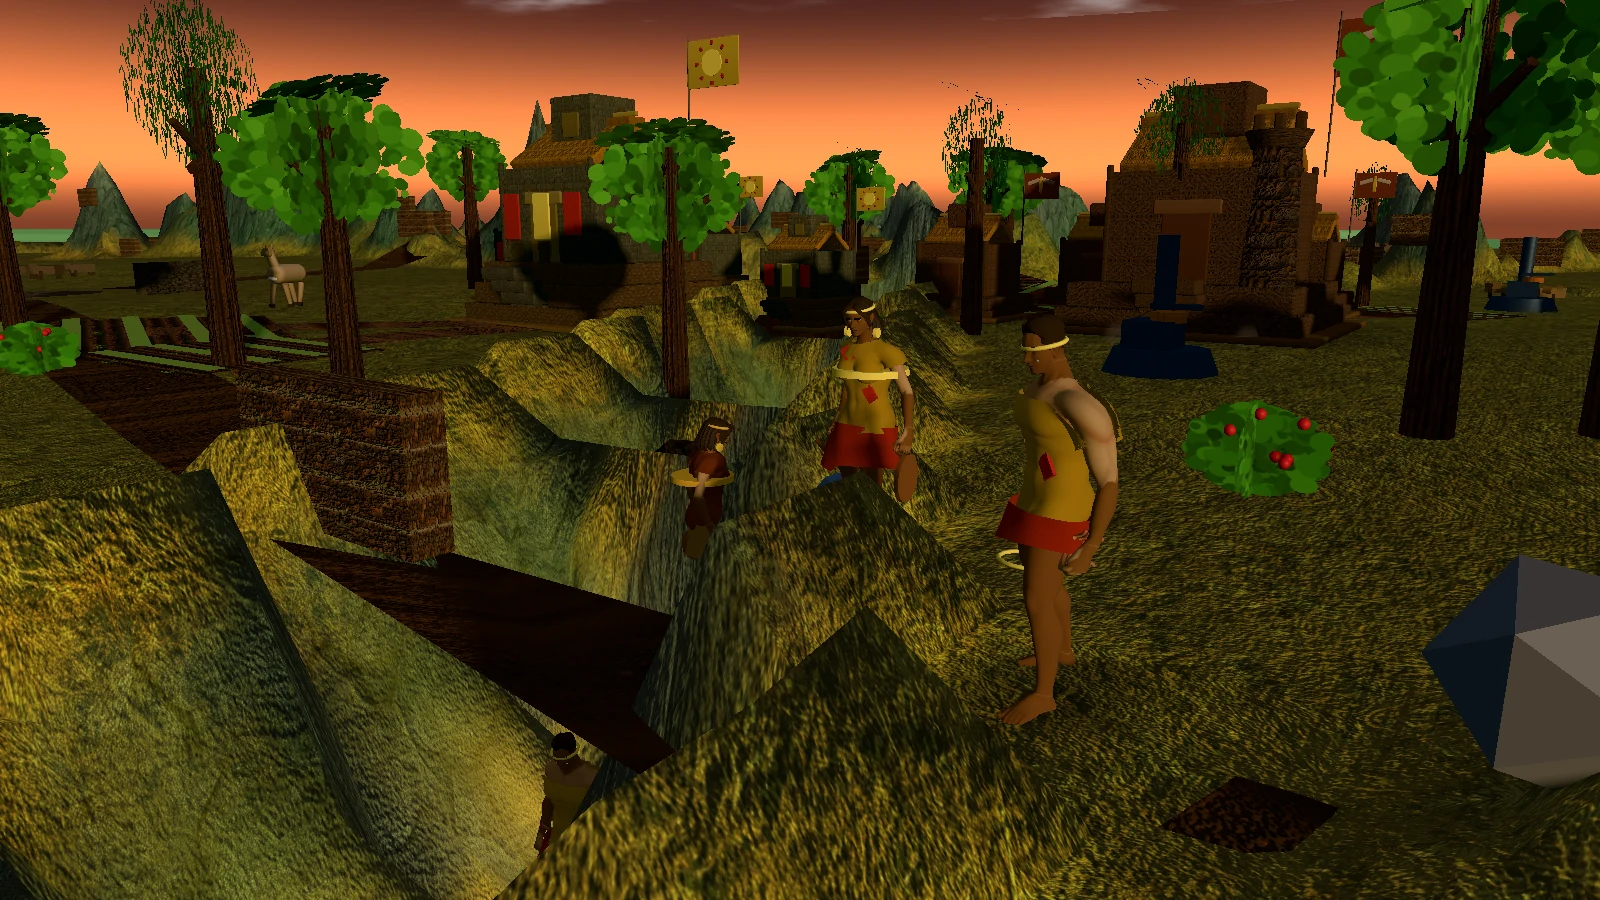
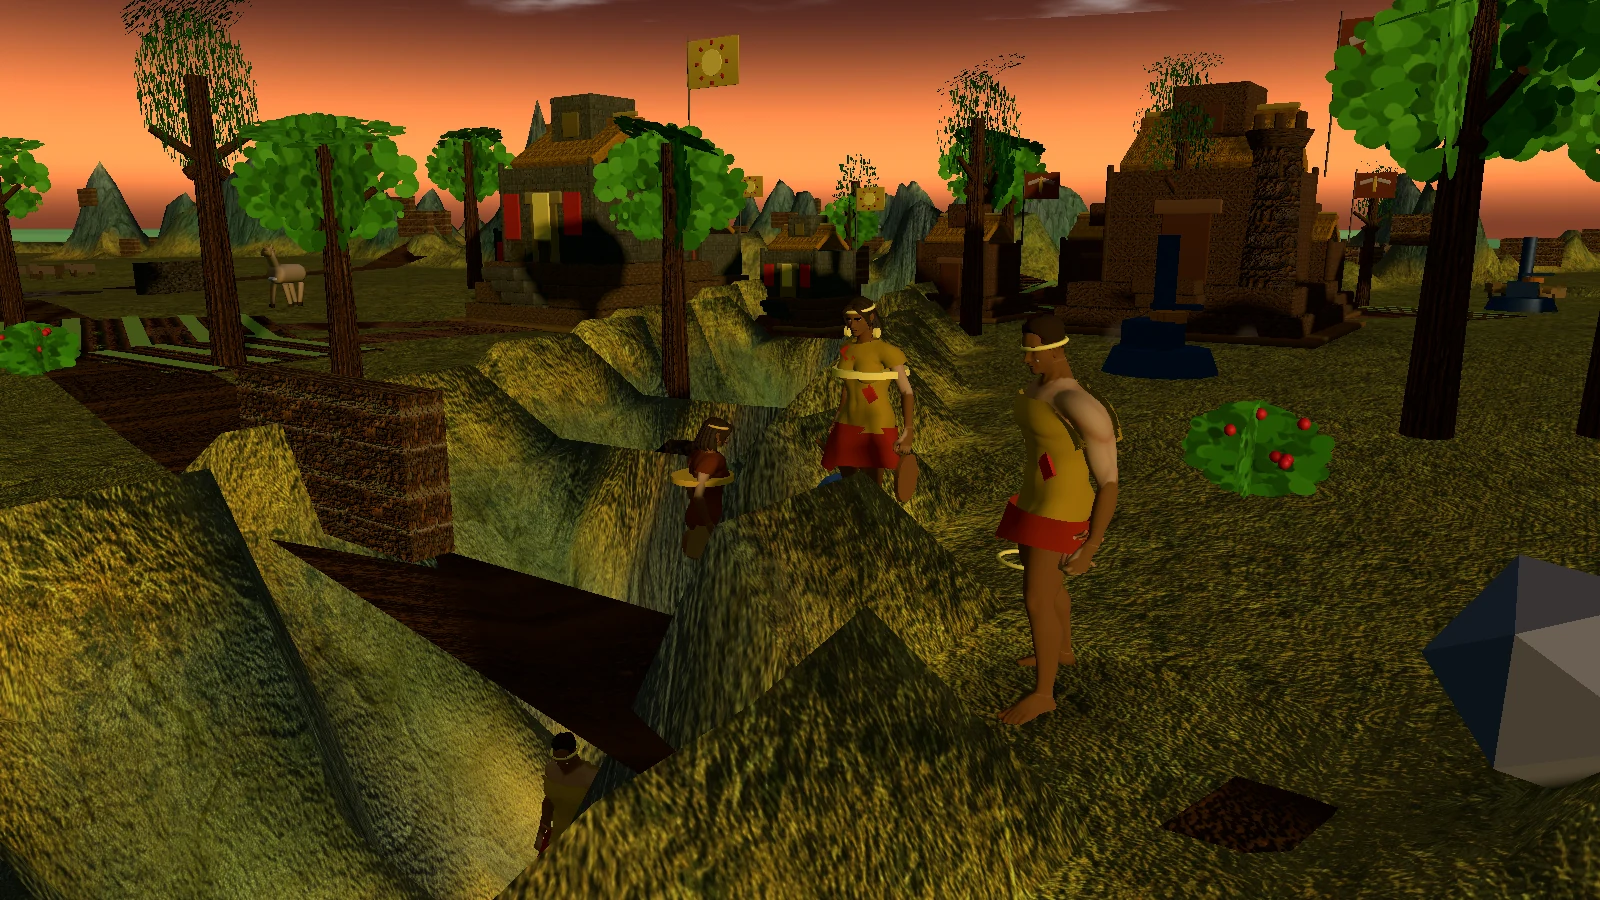
fix(models): keep Tiahuanaco and Chanca sourcing conservative
- Drop the unsourced Tiahuanaco helmet and Chanca/Tiahuanaco ear ornaments.
- Add the Wari back plate and keep the pectoral for ranged units.
- Revert the Chanca/Chimú roster change; era mapping already resolves m5/m6.
- Extend the E2E with scout, enemy-ranged and back-plate coverage.

diff --git a/tests/e2e/late-horizon-units.spec.ts b/tests/e2e/late-horizon-units.spec.ts
@@ -28,7 +28,9 @@ test.describe('Middle and Late Horizon rigged infantry', () => {
         const worker = g.spawnScriptedUnit('worker', 0, c.x - 1.8, c.z + 0.4);
         const soldier = g.spawnScriptedUnit('soldier', 0, c.x, c.z - 0.7);
         const ranged = g.spawnScriptedUnit('musketeer', 0, c.x + 1.8, c.z + 0.5);
+        const scout = g.spawnScriptedUnit('scout', 0, c.x + 3.2, c.z - 0.2);
         const enemy = g.spawnScriptedUnit('soldier', 1, c.x - 1.8, c.z - 1.2);
+        const enemyRanged = g.spawnScriptedUnit('musketeer', 1, c.x - 3.0, c.z + 0.8);
         const visible = (unit: any, name: string): boolean => {
           const mesh = unit?.rig?.root.getObjectByName(name);
           return !!mesh && mesh.visible;
@@ -46,6 +48,7 @@ test.describe('Middle and Late Horizon rigged infantry', () => {
           macana: visible(unit, 'attire_andean_macana'),
           sling: visible(unit, 'attire_andean_sling'),
           pectoral: visible(unit, 'attire_andean_pectoral'),
+          backplate: visible(unit, 'attire_andean_backplate'),
           facePaint: visible(unit, 'attire_andean_face_paint'),
           sash: visible(unit, 'attire_andean_sash'),
           hasAttack: unit?.rig?.hasState('attack') ?? false,
@@ -58,8 +61,10 @@ test.describe('Middle and Late Horizon rigged infantry', () => {
           worker: describe(worker),
           soldier: describe(soldier),
           ranged: describe(ranged),
+          scout: describe(scout),
           enemy: describe(enemy),
-          allRigged: [worker, soldier, ranged, enemy].every((u: any) => !!u?.rig),
+          enemyRanged: describe(enemyRanged),
+          allRigged: [worker, soldier, ranged, scout, enemy, enemyRanged].every((u: any) => !!u?.rig),
         };
       });
 
@@ -67,7 +72,11 @@ test.describe('Middle and Late Horizon rigged infantry', () => {
       expect(out.worker.variant).toMatch(new RegExp(`^${spec.player}_worker_[fm]$`));
       expect(out.soldier.variant).toMatch(new RegExp(`^${spec.player}_soldier_[fm]$`));
       expect(out.ranged.variant).toMatch(new RegExp(`^${spec.player}_ranged_[fm]$`));
+      expect(out.scout.variant).toMatch(
+        new RegExp(spec.enemy === 'tiahuanaco' ? '^wari_scout_[fm]$' : '^inca_chasqui_[fm]$'),
+      );
       expect(out.enemy.variant).toMatch(new RegExp(`^${spec.enemy}_soldier_[fm]$`));
+      expect(out.enemyRanged.variant).toMatch(new RegExp(`^${spec.enemy}_ranged_[fm]$`));
 
       expect(out.worker.tool).toBe(true);
       expect(out.worker.carry).toBe(false);
@@ -76,16 +85,19 @@ test.describe('Middle and Late Horizon rigged infantry', () => {
       expect(out.soldier.backflap).toBe(false);
       expect(out.soldier.hasAttack).toBe(true);
       expect(out.ranged.sling).toBe(true);
+      expect(out.enemyRanged.sling).toBe(true);
 
       if (spec.enemy === 'tiahuanaco') {
         expect(out.soldier.pectoral).toBe(true);
+        expect(out.soldier.backplate).toBe(true);
         expect(out.soldier.helmet).toBe(false);
-        expect(out.enemy.helmet).toBe(true);
+        expect(out.enemy.helmet).toBe(false);
         expect(out.enemy.pectoral).toBe(false);
       }
       if (spec.enemy === 'chanca') {
         expect(out.soldier.sash).toBe(true);
         expect(out.enemy.facePaint).toBe(true);
+        expect(out.enemy.ear).toBe(false);
         expect(out.enemy.sash).toBe(false);
       }
       if (spec.enemy === 'chimu') {

diff --git a/src/rendering/workerAttire.ts b/src/rendering/workerAttire.ts
@@ -239,7 +239,7 @@ export function dressCaralWorker(rig: RigInstance, variant: RigVariant = 'caral_
       sash.rotation.z = 0.6;
       attach('spine_03', sash, new THREE.Vector3(spine.x, spine.y - 0.02, spine.z + 0.12));
     }
-    if (spec.pectoral && role === 'soldier' && spine) {
+    if (spec.pectoral && spine) {
       const pectoralMat = makeMaterial(spec.metal ?? palette.accent, 0.55);
       const pectoral = addMesh(
         new THREE.CylinderGeometry(0.11, 0.11, 0.018, 16),
@@ -248,6 +248,8 @@ export function dressCaralWorker(rig: RigInstance, variant: RigVariant = 'caral_
       );
       pectoral.rotation.x = Math.PI / 2;
       attach('spine_03', pectoral, new THREE.Vector3(spine.x, spine.y + 0.08, spine.z + 0.13));
+      const backplate = addMesh(new THREE.BoxGeometry(0.26, 0.24, 0.025), pectoralMat, 'attire_andean_backplate');
+      attach('spine_03', backplate, new THREE.Vector3(spine.x, spine.y + 0.04, spine.z - 0.18));
     }
     const metalMat =
       spec.metal !== null && (spec.helmet || spec.ear) && role === 'soldier' ? makeMaterial(spec.metal, 0.55) : null;

diff --git a/src/model/defs/civs.ts b/src/model/defs/civs.ts
@@ -189,7 +189,7 @@ export const CIVS: CivDef[] = [
     name: 'Reino Chimú',
     adjective: 'chimú',
     colors: { primary: '#1f6f6f', secondary: '#d8c8a0', accent: '#c8a040' },
-    periods: [HistoricalPeriod.LATE_INTERMEDIATE, HistoricalPeriod.LATE_HORIZON],
+    periods: [HistoricalPeriod.LATE_INTERMEDIATE],
     geography: 'coast',
     bonuses: ['Orfebrería: plata +20%', 'Chan Chan: viviendas más baratas', 'Canales: agricultura mejorada'],
     effects: { gathering: { silver: 0.2 } },
@@ -215,7 +215,7 @@ export const CIVS: CivDef[] = [
     name: 'Confederación Chanca',
     adjective: 'chanca',
     colors: { primary: '#7a3a2a', secondary: '#c8a888', accent: '#d8a040' },
-    periods: [HistoricalPeriod.LATE_INTERMEDIATE, HistoricalPeriod.LATE_HORIZON],
+    periods: [HistoricalPeriod.LATE_INTERMEDIATE],
     geography: 'andes',
     bonuses: ['Guerreros de altura: +ataque', 'Fortalezas en cerros: defensa', 'Movilización rápida'],
     effects: { attack: 0.15, speed: 0.05 },

diff --git a/src/model/defs/andeanCharacters.ts b/src/model/defs/andeanCharacters.ts
@@ -119,10 +119,10 @@ export const ANDEAN_SPECS: Record<AndeanCulture, AndeanSpec> = {
     shoulderSash: false,
   },
   tiahuanaco: {
-    metal: 0xc8a040,
-    helmet: true,
+    metal: null,
+    helmet: false,
     backflap: false,
-    ear: true,
+    ear: false,
     belt: true,
     shield: true,
     manta: 'none',
@@ -132,10 +132,10 @@ export const ANDEAN_SPECS: Record<AndeanCulture, AndeanSpec> = {
     shoulderSash: false,
   },
   chanca: {
-    metal: 0xc8a040,
+    metal: null,
     helmet: false,
     backflap: false,
-    ear: true,
+    ear: false,
     belt: true,
     shield: true,
     manta: 'none',

diff --git a/docs/design/visual-language.md b/docs/design/visual-language.md
@@ -281,11 +281,12 @@ Evidence:
 soldier; UI hidden).
 
 The **Middle and Late Horizon infantry** extend the same rig to Wari, Tiahuanaco, Chanca, Chimú and Inca. The
-shared tunic/wrap, ear ornaments, belt, shield and stone macana stay consistent; the distinguishing pieces are
-source-led: Wari's chest/back **pectoral**, Tiahuanaco's **conical helmet**, Chanca **face paint**, and the
-gold **ear ornaments** of Chimú and Inca plus the Inca **red shoulder sash** (canesú). The ranged variant keeps
-the generic sling prop. Chanca and Chimú were added to `LATE_HORIZON` so they are coetaneous with the Inca in
-`m5`/`m6`; the Inca scout keeps the reserved `inca_chasqui_*` set instead of the infantry role clips. Evidence:
+shared tunic/wrap, belt, shield and stone macana stay consistent; the distinguishing pieces are source-led:
+Wari's chest/back **pectoral**, Chanca **face paint**, and the gold **ear ornaments** of Chimú and Inca plus
+the Inca **red shoulder sash** (canesú). Tiahuanaco shares the textile/diadem abstraction because its concrete
+garments are not documented. The ranged variant keeps the generic sling prop. The era mapping resolves Chanca
+and Chimú in `m5`/`m6` even though their `CivDef` period is Late Intermediate; the roster is unchanged. The
+Inca scout keeps the reserved `inca_chasqui_*` set instead of the infantry role clips. Evidence:
 [`middle-horizon-units.webp`](../media/middle-horizon-units.webp) (Wari worker/soldier/ranged and Tiahuanaco
 soldier), [`late-horizon-units.webp`](../media/late-horizon-units.webp) (Inca worker/soldier/ranged and Chanca
 soldier) and [`chimu-inca-units.webp`](../media/chimu-inca-units.webp) (Inca and Chimú soldiers; UI hidden).

diff --git a/docs/historia/atuendos.md b/docs/historia/atuendos.md
@@ -123,10 +123,11 @@ era). Donde un dato no está atestiguado se indica **«no documentado»**; no se
 > distinto para este último). La honda de la variante a distancia es un arma andina general
 > (Métraux, *Weapons*), no una atribución específica a Chavín o Paracas.
 
-> **Implementación riggeada (m4–m6).** Wari añade el disco pectoral; Tiahuanaco, el casco cónico; Chanca,
-> la pintura facial; Chimú e Inca, orejeras de metal; e Inca, el canesú rojo. La túnica/wrap, el escudo, la
-> macana y la honda son la abstracción compartida. Chanca y Chimú incluyen Horizonte Tardío para ser coetáneos
-> de los incas en `m5`/`m6`; no se postula un atuendo distinto para ese periodo.
+> **Implementación riggeada (m4–m6).** Wari añade el disco pectoral (pecho/espalda); Chanca, la pintura
+> facial; Chimú e Inca, orejeras de metal; e Inca, el canesú rojo. Tiahuanaco comparte la diadema/abstracción
+> textil porque sus prendas concretas no están documentadas. La túnica/wrap, el escudo, la macana y la honda son
+> la abstracción compartida. El mapeo por era permite que Chanca y Chimú usen el rig en `m5`/`m6` aunque su
+> periodo de definición sea Intermedio Tardío; no se cambia su roster.
 
 ### Textiles por civilización (implementación)
 

diff --git a/docs/development.md b/docs/development.md
@@ -453,8 +453,9 @@ as a presentation base, add a simple manta (longer for Paracas, so the two coeta
 silhouette) and a headband, and omit the belt and Moche warrior gear; the sling is a prop whose attack reuses
 `Punch_Jab`. Paracas reuses this Formativo abstraction in both periods; no separate Early Intermediate outfit
 is claimed. Wari, Tiahuanaco, Chanca, Chimú and Inca use the same rig in the Middle/Late Horizon: Wari adds a
-pectoral, Tiahuanaco a conical helmet, Chanca face paint, Chimú/Inca gold ear ornaments and the Inca a red
-shoulder sash. Chanca and Chimú now include `LATE_HORIZON` so the m5/m6 enemy is coetaneous with the Inca; the
+pectoral, Chanca face paint, Chimú/Inca gold ear ornaments and the Inca a red shoulder sash. Tiahuanaco shares
+the diadem abstraction because its concrete garments are not documented. The
+era mapping resolves Chanca and Chimú in m5/m6 even though their `CivDef` period is Late Intermediate; the
 Inca scout remains the reserved chasqui variant. The female and male bodies share one 65-bone skeleton and the
 clips; each instance hides the unused body/hair/outfit set. Workers use the tunic + skirt/sash
 (female) or tunic + short wrap/sash (male). The Caral scout uses the same commoner tunic/skirt or wrap plus a
